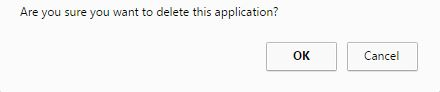
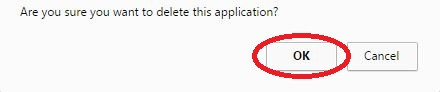
Finshed Student Revison of HelpPages

Changed region(s): [[0.5614, 0.3478, 0.7977, 0.8696]]

diff --git a/app/views/helps/_professional_growth_plans.html.md b/app/views/helps/_professional_growth_plans.html.md
@@ -7,19 +7,17 @@ To create/edit/score/delete a PGP see the directions below.
 ### Getting to the Student's PGP Page
 1. First click on the Students & Advisees tab at the top of the page.
 
-  ![Students & Advisees tab](/help_images/students_tab.JPG)
+    ![Students & Advisees tab](/help_images/students_tab.JPG)
 
-2. You will be presented with a list of available Students and Advisees.
 
+2. You will be presented with a list of available Students and Advisees. Select the Actions button of the student you would like to submit a PGP.
   ![Students](/help_images/students.JPG)
-
 3. Select PGP from the actions drop down menu.
-
-  ![Actions_Button](/help_images/professional_growth_plan/actions_button.JPG)
-
+  
+  ![Actions_Button](/help_images/professional_growth_plan/pgp_dropdown.JPG)
 
 ***
-### Creating the PGP
+### Creating a PGP
 This will lead you to the selected student's PGP menu. You can submit a new Professional Growth Plan for the student by selecting the New Professional Growth Plan button.
 
 &nbsp;
@@ -32,12 +30,10 @@ If any of the text boxes are left empty, the PGP will not be recorded.
   ![Creating a new PGP](/help_images/professional_growth_plan/new_pgp.JPG)
 
 If at any point you want to cancel creating a PGP, click the back button located on the top left of the page. You will be redirected to the student's PGP overview page.
-
-  ![PGP back button](/help_images/professional_growth_plan/pgp_back_button.JPG)
+**WARNING**: If you press the back button anytime during the process of making a PGP, and have not submitted your PGP, your progress will be lost, and you will be redirected back to the PGP overview page.
 &nbsp;
 
-
-**WARNING**: If you press the back button anytime during the process of making a PGP, and have not submitted your PGP, your progress will be lost, and you will be redirected back to the PGP overview page.
+  ![PGP back button](/help_images/professional_growth_plan/pgp_back_button.JPG)
 &nbsp;
 
 Press submit once finished completing the PGP and you will be redirected back to the student's PGP overview page. A message will be displayed in green saying the PGP has been created. Your created PGP will be displayed down below along with the date it was created and a goal score.
@@ -45,21 +41,31 @@ Press submit once finished completing the PGP and you will be redirected back to
   ![Created PGP](/help_images/professional_growth_plan/created_pgp.JPG)
 
 &nbsp;
+***
+### Editing a PGP
+To edit a PGP, select the Edit button located next the Details button.
 
-### Editing the PGP
+  ![PGP Edit Button](/help_images/professional_growth_plan/pgp_edit_button.JPG)
+  
+This will lead to form to edit the PGP. Complete to form and press the Update Professional Growth Plan button to submit the form.
 
+  ![PGP Edit Form](/help_images/professional_growth_plan/pgp_edit_form.JPG)
+
+Submitting the form will redirect back to the PGP overview page. A message will be displayed on the successful submission of the PGP update form.
+
+  ![PGP Edit Success](/help_images/professional_growth_plan/pgp_edited.JPG)
 
 ***
-### Scoring the PGP
+### Scoring a PGP
 To score a PGP, click on the Score PGP button located on the right side of the PGP you want to score.
 
 &nbsp;
 
-  ![Students](/help_images/professional_growth_plan/score_pgp.JPG)
+  ![PGP Score](/help_images/professional_growth_plan/score_pgp.JPG)
 
 You will be redirected to a page to score the selected PGP. You will be presented with the goal, goal description, and the action plan of the PGP. Select a score for the student. The score ranges from 1 - 4 with 1 being poor and 4 being excellent. Then explain the reasoning for the score to help the student better achieve their professional growth plan goal. Once you are done with scoring your PGP press the submit button.
 
-  ![Students](/help_images/professional_growth_plan/scoring_pgp_page.JPG)
+  ![PGP Scoring](/help_images/professional_growth_plan/scoring_pgp_page.JPG)
 
 If at any point you would like to exit out of scoring a PGP, select the back button located on the top left.&nbsp;
 
@@ -70,3 +76,21 @@ If at any point you would like to exit out of scoring a PGP, select the back but
 Once submitted, you will be redirected to the selected PGP score page. The selected PGP has been scored and should be displayed. The most recent score will be displayed at the top of the menu. If at any point you want to edit your score and/or description click the Edit PGP button. You can score a single PGP multiple times by repeating the steps above.
 
 ![PGP Score Back button](/help_images/professional_growth_plan/pgp_scored.JPG)
+
+***
+### Deleting a PGP
+To delete a PGP, click on the trash can button located on the right side.
+
+&nbsp;
+
+  ![PGP Delete Button](/help_images/professional_growth_plan/pgp_delete_button.JPG)
+  
+Once the icon is pressed, a pop-up window will ask for the confirmation of the deletion of the PGP.
+
+  ![PGP Delete](/help_images/professional_growth_plan/pgp_delete.JPG)
+  
+Pressing OK, will confirm the quest for the deletion and a message will be displayed on the successful deletion of the PGP.
+
+  ![PGP Deleted](/help_images/professional_growth_plan/pgp_deleted.JPG)
+
+***

diff --git a/app/views/helps/_student_issues.html.md b/app/views/helps/_student_issues.html.md
@@ -1,22 +1,26 @@
-## Creating a Student Issue
-To create an issue for a student, first click on the Students & Advisees tab at the top of the page.
-
-  ![Students & Advisees tab](/help_images/students_tab.JPG)
-
-&nbsp;
-
-You will be presented with a list of available Students and Advisees. Clicking the blue Actions button on the righthand side of your student will bring up a drop down menu with options you can use to access student information.
 
 
-  ![Students](/help_images/students.JPG)
+##  Student Issues
 
-Select Issue from the actions drop down menu.
+To create/update/delete a student issue see the directions below.
+***
 
+### Getting to the Student's Issue Page
+1. First click on the Students & Advisees tab at the top of the page.  
 
-  ![Issue Selection](/help_images/student_issue/issue_action.JPG)
+    ![Students & Advisees tab](/help_images/students_tab.JPG)
+    
+2. You will be presented with a list of available Students and Advisees. Select the Actions button of the student you would like to submit a student Issue.
 
+    ![Students](/help_images/students.JPG)
+
+3. Select Issues from the actions drop down menu.
+
+    ![Actions_Button](/help_images/student_issue/issue_action.JPG)
+
+***
+### Creating a Student Issue
 This will lead you to the selected student's Issue menu. You can submit a new Issue for the student by selecting the New Issue button.
-
 
   ![Issue Page](/help_images/student_issue/issue_page.JPG)
 
@@ -28,6 +32,8 @@ The dropdown menu `Status of Issue` indicates the issue's initial status. This c
 -  **Resolved** An issue that is not problematic or has been already been addressed and resolved.
 - **Progressing** An issue that has been addressed and the candidate is making progress on addressing but has not yet fully completed.
 - **Concern** An issue of concern that has not yet been addressed and/or the student has not yet made any significant progress on correcting.
+
+Once finished, select the Open Issue button.
 
   ![Issue Submission](/help_images/student_issue/new_issue.JPG)
 
@@ -70,4 +76,17 @@ and a message will be displayed on the successful submission of the issue update
 
 ![Issue Update Complete](/help_images/student_issue/issue_update_done.JPG)
 
+***
+### Deleting a Student Issue
+To delete a student Issue, select the issue you want deleted by clicking on the trash can icon located on the the far right of the issue you want deleted.
+
+  ![Issue Update Complete](/help_images/student_issue/issue_delete_button.JPG)
+
+Once you press the icon, a pop-up window will ask you to confirm your request to delete the issue.
+
+  ![Issue Update Complete](/help_images/student_issue/issue_delete.JPG)
+
+Pressing OK, will delete the issue and a message will be displayed on the successful deletion of the issue.
+
+  ![Issue Update Complete](/help_images/student_issue/issue_deleted.JPG)
 ***

diff --git a/app/views/helps/_clinical_placements.html.md b/app/views/helps/_clinical_placements.html.md
@@ -8,9 +8,9 @@ To create/edit/delete a clinical placement see the directions below.
 ### Getting to the Clinical Placement's Page
 1. First click on the Field Experience tab at the top of the page. It will lead to a drop down menu. In this drop down menu, click on the Clinical Placements tab.
 
-    ![Field Experience Tab](/help_images/clinical_teachers/advisor_nav_bar.JPG)
+    ![Field Experience Tab](/help_images/clinical_placements/advisor_nav_bar.JPG)
 
-    ![Field Experience Dropdown Menu](/help_images/clinical_teachers/field_exp_drop_down.JPG)
+    ![Field Experience Dropdown Menu](/help_images/clinical_placements/placements_drop_down.JPG)
     
 2. You will be presented with a list of student clinical assignments that are within the database. The system lists are arranged alphabetically by the student's last name. Here you will be presented with a scroll down menu where you can select a term.
 
@@ -22,7 +22,7 @@ To create a new Clinical Placement, first select the New Assignment button locat
 
 &nbsp;
 
-  ![New Clinical Placement](/help_images/clinical_placements/clinical_assigment_all.JPG)
+  ![New Clinical Placement](/help_images/clinical_placements/new_assignment_button.JPG)
 
 &nbsp;
 
@@ -41,7 +41,7 @@ To edit a Clinical Placement, select the Edit button located next to the End Dat
 
 &nbsp;
 
-  ![Edit Button](/help_images/clinical_placements/clinical_assigment_edit.JPG)
+  ![Edit Button](/help_images/clinical_placements/clinical_assigment_edit_button.JPG)
 
 &nbsp;
 
@@ -64,7 +64,7 @@ To delete a Clinical Placement, select the trash can icon located next to the Ed
 
 &nbsp;
 
-  ![Locate Delete](/help_images/clinical_placements/clinical_assigment_all.JPG)
+  ![Locate Delete](/help_images/clinical_placements/clinical_assigment_delete_button.JPG)
 
 &nbsp;
 

diff --git a/app/views/helps/_clinical_sites.html.md b/app/views/helps/_clinical_sites.html.md
@@ -8,9 +8,9 @@ To create/edit/delete a clinical site see the directions below.
 ### Getting to the Clinical Site's Page
 1. First click on the Field Experience tab at the top of the page. It will lead to a drop down menu. In this drop down menu, click on the Clinical Teacher tab.
 
-    ![Field Experience Tab](/help_images/clinical_teachers/advisor_nav_bar.JPG)
+    ![Field Experience Tab](/help_images/clinical_sites/advisor_nav_bar.JPG)
 
-    ![Field Experience Dropdown Menu](/help_images/clinical_teachers/field_exp_drop_down.JPG)
+    ![Field Experience Dropdown Menu](/help_images/clinical_sites/sites_drop_down.JPG)
 
 2. You will be presented with a list of clinical sites that are within the database.
   

diff --git a/app/views/helps/_clinical_teachers.html.md b/app/views/helps/_clinical_teachers.html.md
@@ -10,7 +10,7 @@ To create/edit/delete a clinical teacher see the directions below.
 
     ![Field Experience Tab](/help_images/clinical_teachers/advisor_nav_bar.JPG)
 
-    ![Field Experience Dropdown Menu](/help_images/clinical_teachers/field_exp_drop_down.JPG)
+    ![Field Experience Dropdown Menu](/help_images/clinical_teachers/teachers_drop_down.JPG)
 
 2. You will be presented with a list of teachers that are within the database. The system lists are arranged alphabetically by the teacher's last name.
 
